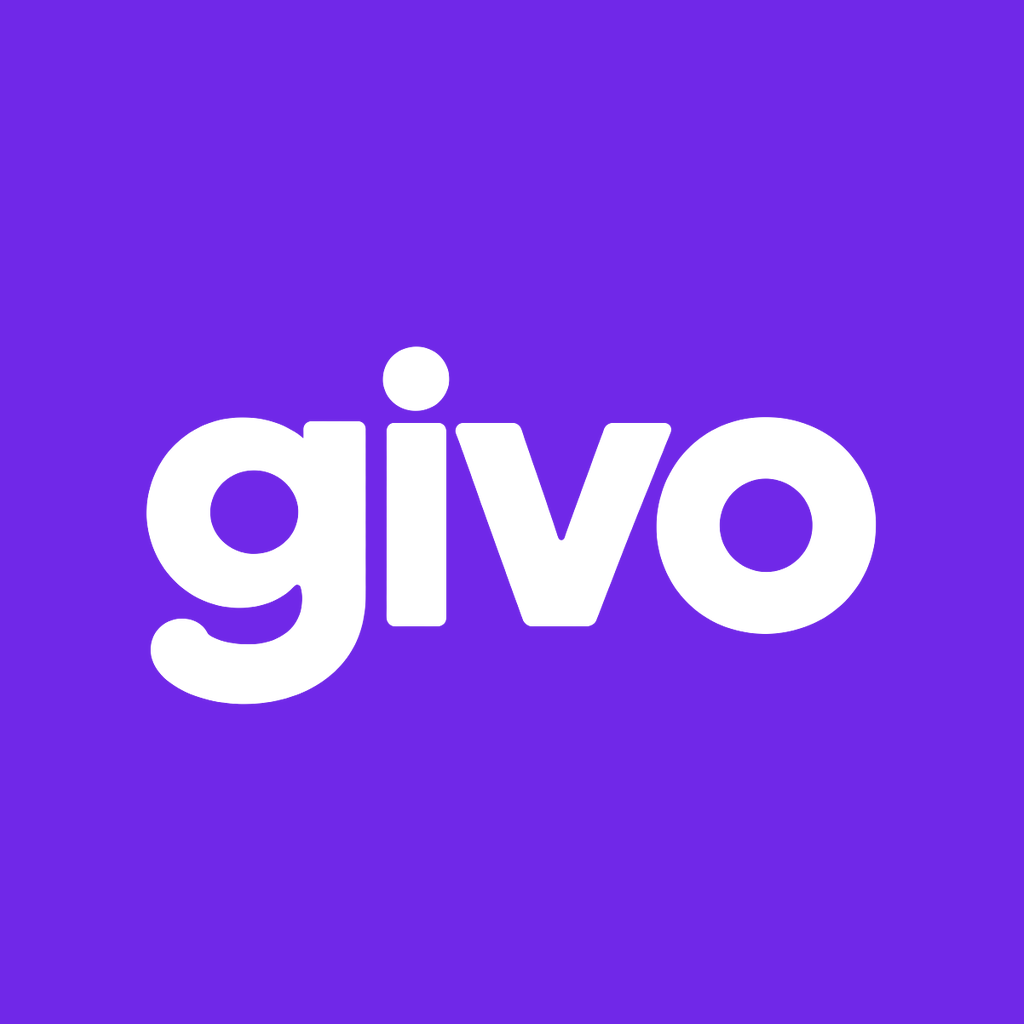
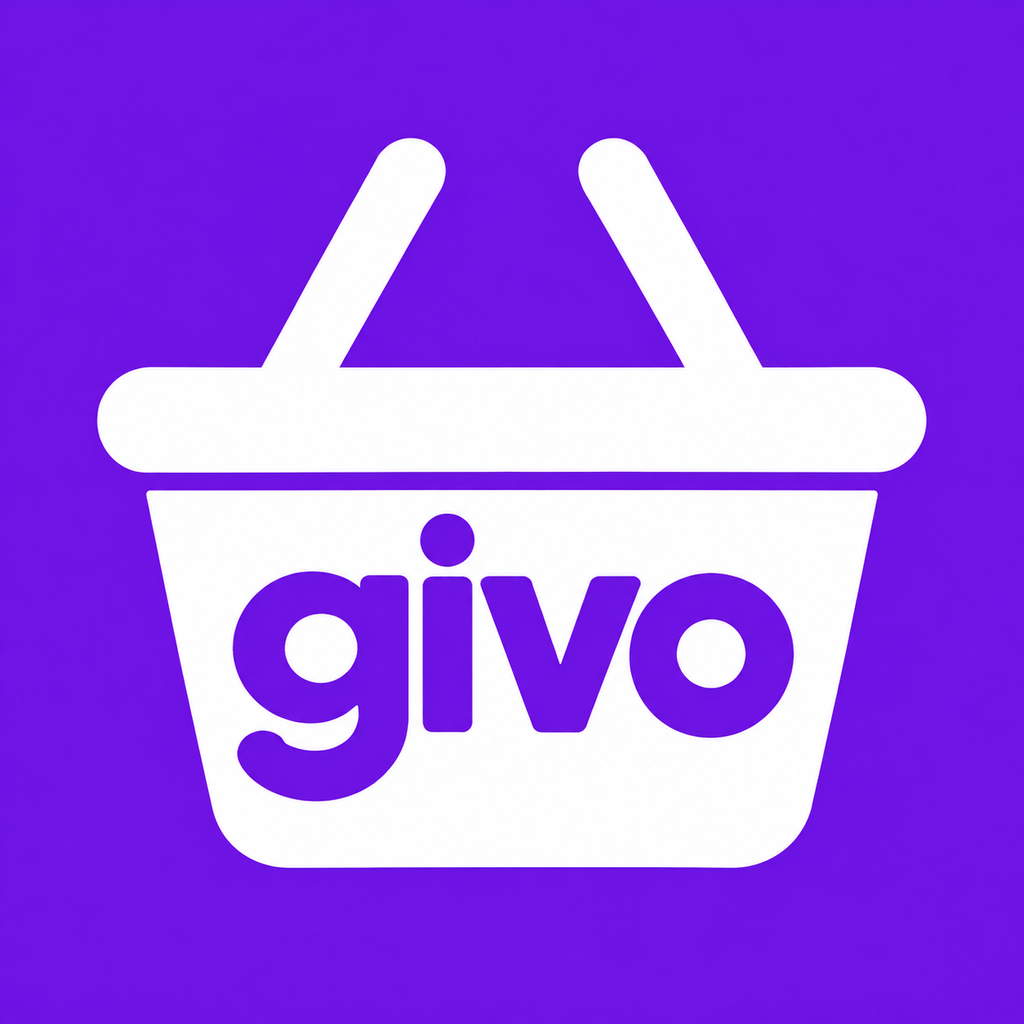
Nová ikona aplikace (košík givo), adaptivní ikona, splash
Claude-Session: https://claude.ai/code/session_014YzKR5tPSZnWPr8aK1bVGn

Changed region(s): [[0.0938, 0.125, 0.9062, 0.875]]

diff --git a/snack/App.js b/snack/App.js
@@ -512,24 +512,11 @@ var Logo = function Logo({ size = 40, color = B }) {
   return <Image source={LOGO_IMG} style={{ height: h, width: h * LOGO_RATIO, tintColor: color }} resizeMode="contain" accessibilityLabel="givo" />;
 }
 
+var APP_ICON_IMG = { uri: 'https://raw.githubusercontent.com/vacino10/takeit2/main/assets/icon.png' };
 var AppIcon = function AppIcon({ size = 120 }) {
   return (
-    <View
-      style={{
-        width: size,
-        height: size,
-        borderRadius: size * 0.24,
-        backgroundColor: B,
-        alignItems: 'center',
-        justifyContent: 'center',
-        shadowColor: B,
-        shadowOpacity: 0.35,
-        shadowRadius: 20,
-        shadowOffset: { width: 0, height: 10 },
-        elevation: 10,
-      }}
-    >
-      <Image source={LOGO_IMG} style={{ width: size * 0.72, height: (size * 0.72) / LOGO_RATIO, tintColor: '#fff', marginTop: size * 0.03 }} resizeMode="contain" />
+    <View style={{ width: size, height: size, borderRadius: size * 0.24, shadowColor: B, shadowOpacity: 0.35, shadowRadius: 20, shadowOffset: { width: 0, height: 10 }, elevation: 10 }}>
+      <Image source={APP_ICON_IMG} style={{ width: size, height: size, borderRadius: size * 0.24 }} />
     </View>
   );
 }

diff --git a/App.js b/App.js
@@ -280,24 +280,11 @@ function Logo({ size = 40, color = B }) {
   return <Image source={LOGO_IMG} style={{ height: h, width: h * LOGO_RATIO, tintColor: color }} resizeMode="contain" accessibilityLabel="givo" />;
 }
 
+const APP_ICON_IMG = require('./assets/icon.png');
 function AppIcon({ size = 120 }) {
   return (
-    <View
-      style={{
-        width: size,
-        height: size,
-        borderRadius: size * 0.24,
-        backgroundColor: B,
-        alignItems: 'center',
-        justifyContent: 'center',
-        shadowColor: B,
-        shadowOpacity: 0.35,
-        shadowRadius: 20,
-        shadowOffset: { width: 0, height: 10 },
-        elevation: 10,
-      }}
-    >
-      <Image source={LOGO_IMG} style={{ width: size * 0.72, height: (size * 0.72) / LOGO_RATIO, tintColor: '#fff', marginTop: size * 0.03 }} resizeMode="contain" />
+    <View style={{ width: size, height: size, borderRadius: size * 0.24, shadowColor: B, shadowOpacity: 0.35, shadowRadius: 20, shadowOffset: { width: 0, height: 10 }, elevation: 10 }}>
+      <Image source={APP_ICON_IMG} style={{ width: size, height: size, borderRadius: size * 0.24 }} />
     </View>
   );
 }
